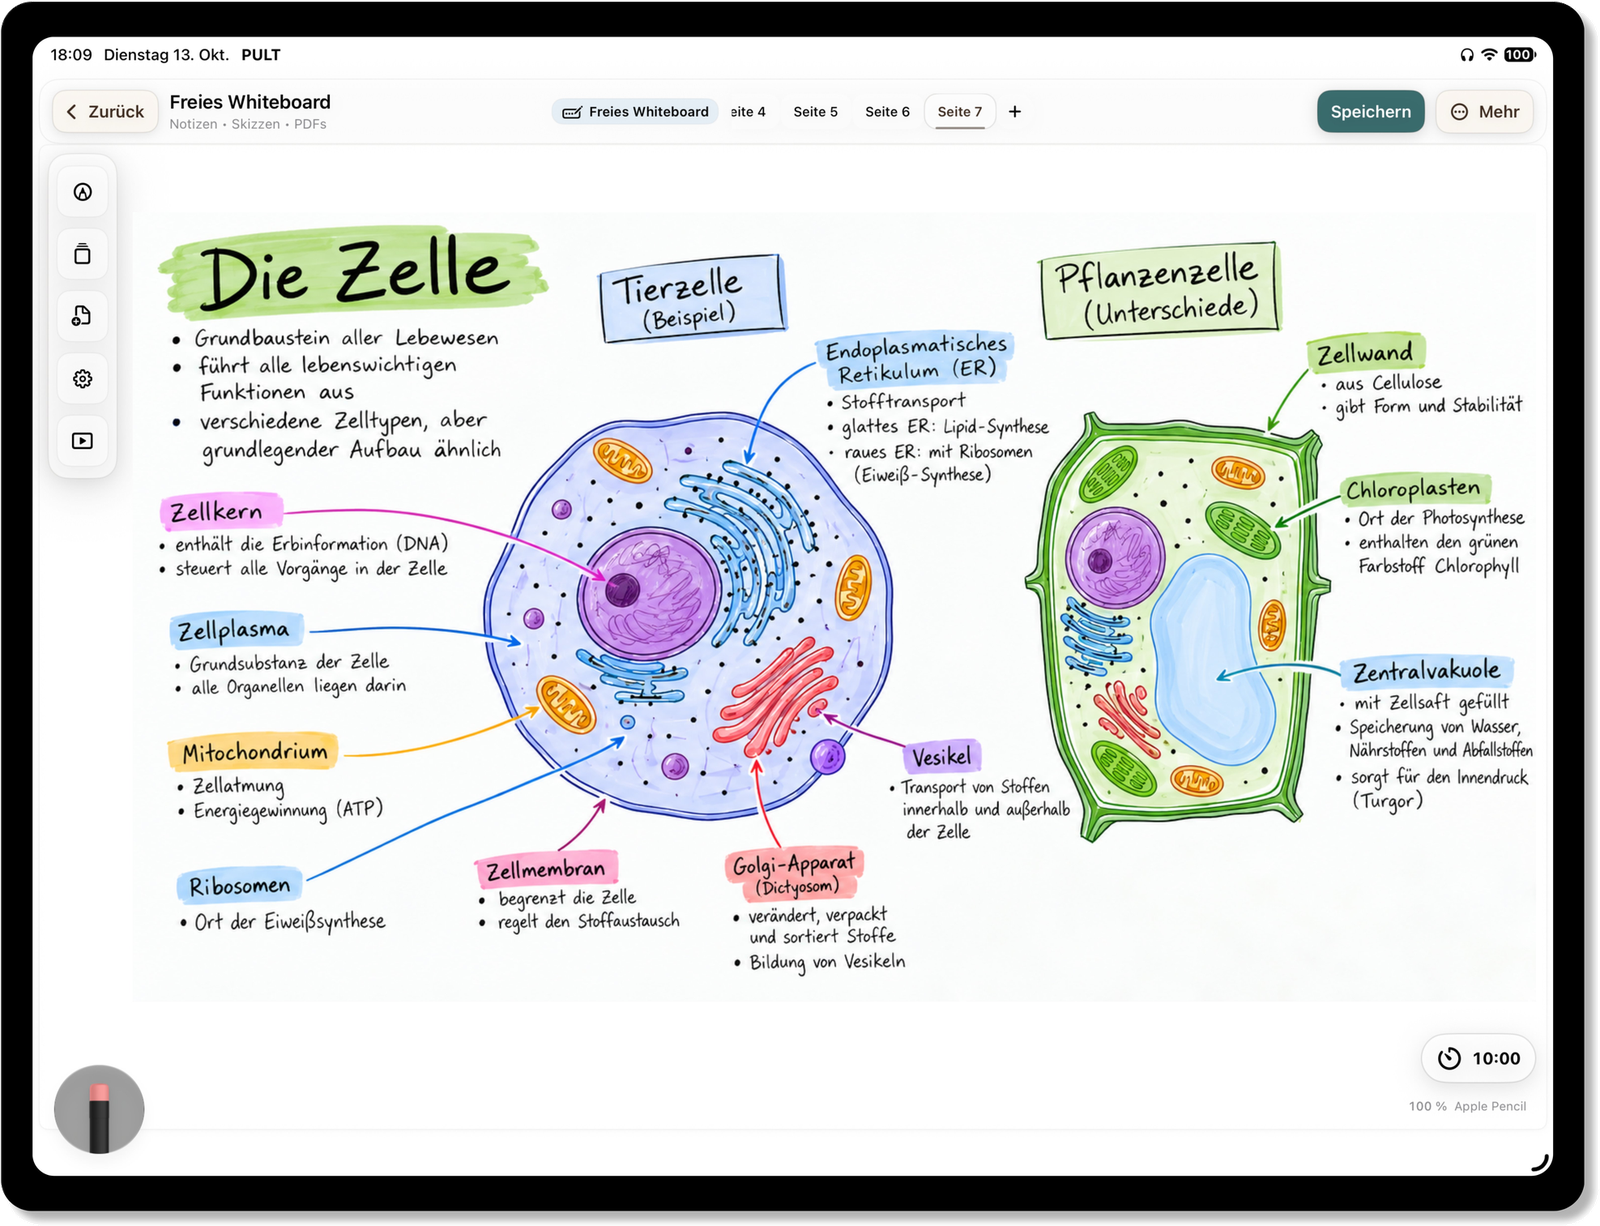
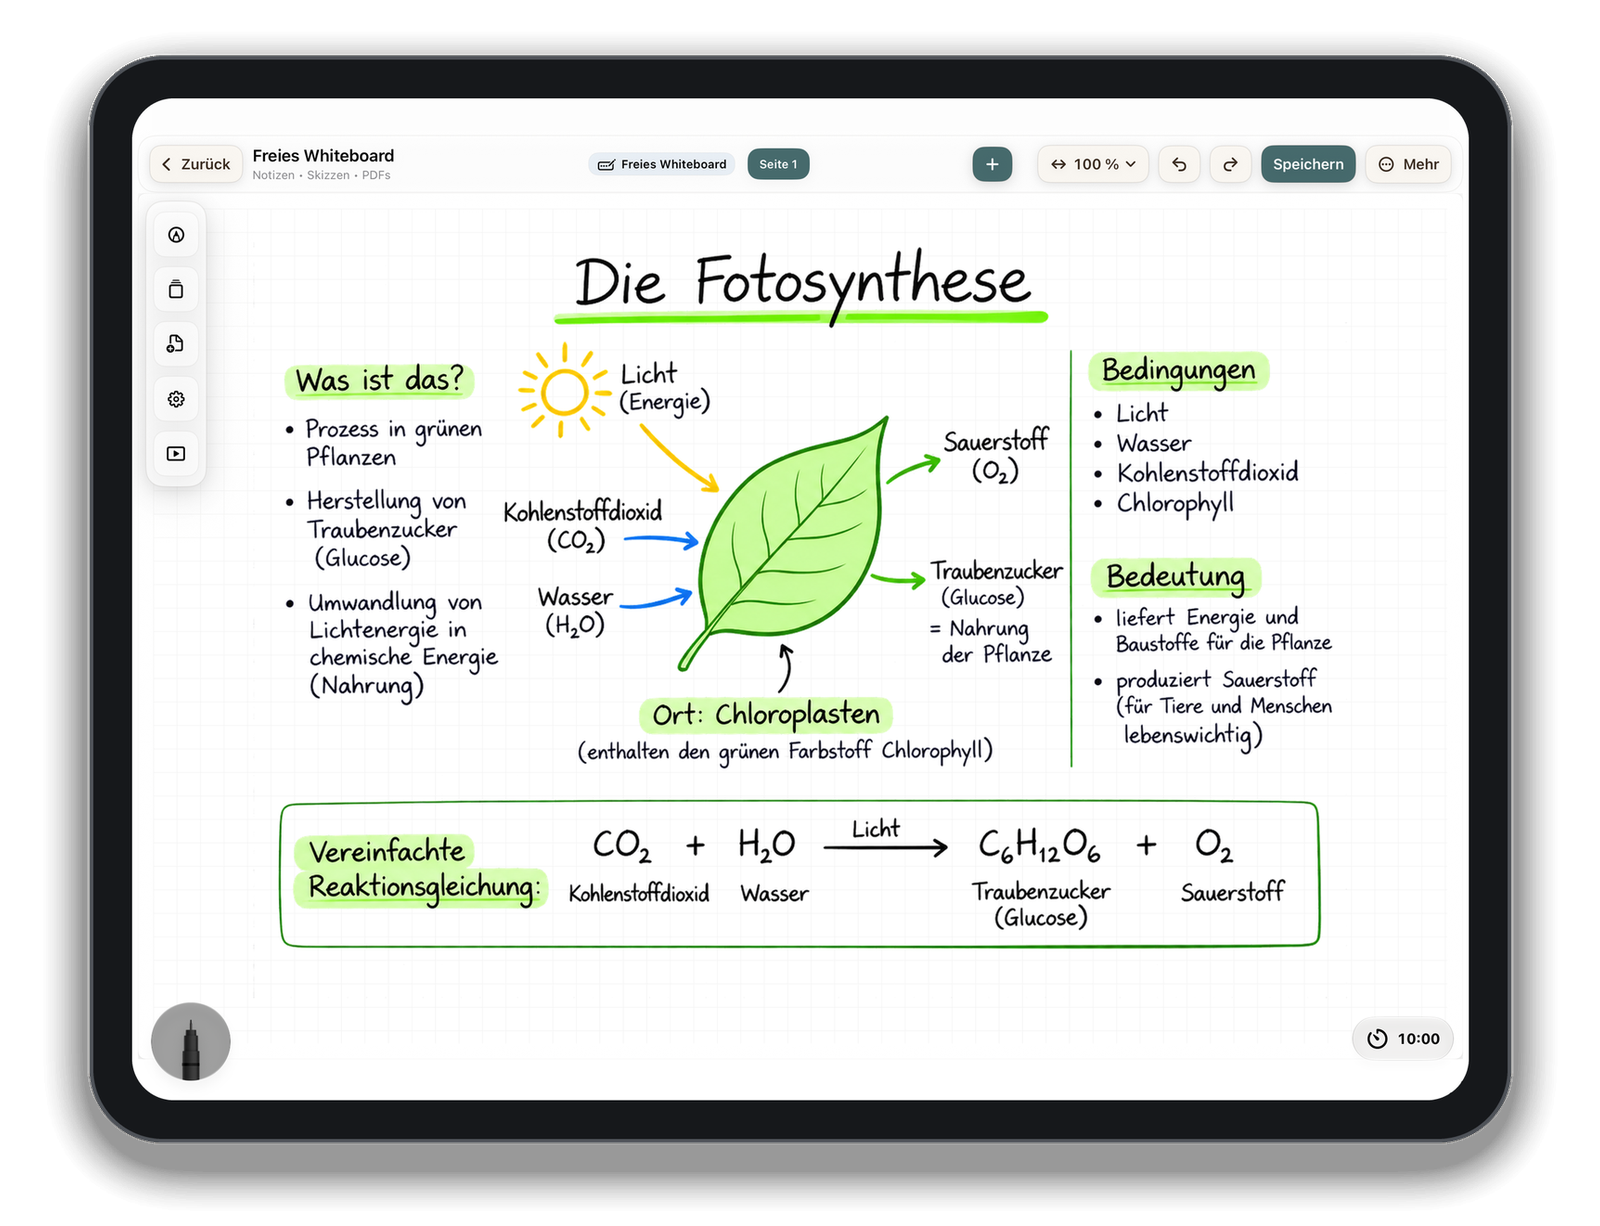
Whiteboard-Bild ersetzt: Tafelbild Fotosynthese auf DIN-A4-Blatt (iPad)
Claude-Session: https://claude.ai/code/session_013LEzimJsxSiX9Uqu19Ykri

diff --git a/index.html b/index.html
@@ -302,8 +302,8 @@
           <figure class="feature-visual">
             <button class="screenshot-trigger" type="button" aria-label="Screenshot vergrößern: PULT-Whiteboard">
               <picture>
-                <source srcset="./assets/images/web/web-pult-whiteboard.webp" type="image/webp">
-                <img src="./assets/images/web/web-pult-whiteboard.png" width="1600" height="1226" alt="Whiteboard in PULT mit einem farbigen Tafelbild zur Zelle" loading="lazy" decoding="async">
+                <source srcset="./assets/images/web/web-pult-whiteboard.webp?v=20261125" type="image/webp">
+                <img src="./assets/images/web/web-pult-whiteboard.png?v=20261125" width="1600" height="1226" alt="Whiteboard in PULT auf dem iPad: Tafelbild zur Fotosynthese auf einem DIN-A4-Blatt mit 5-mm-Karo" loading="lazy" decoding="async">
               </picture>
             </button>
           </figure>
